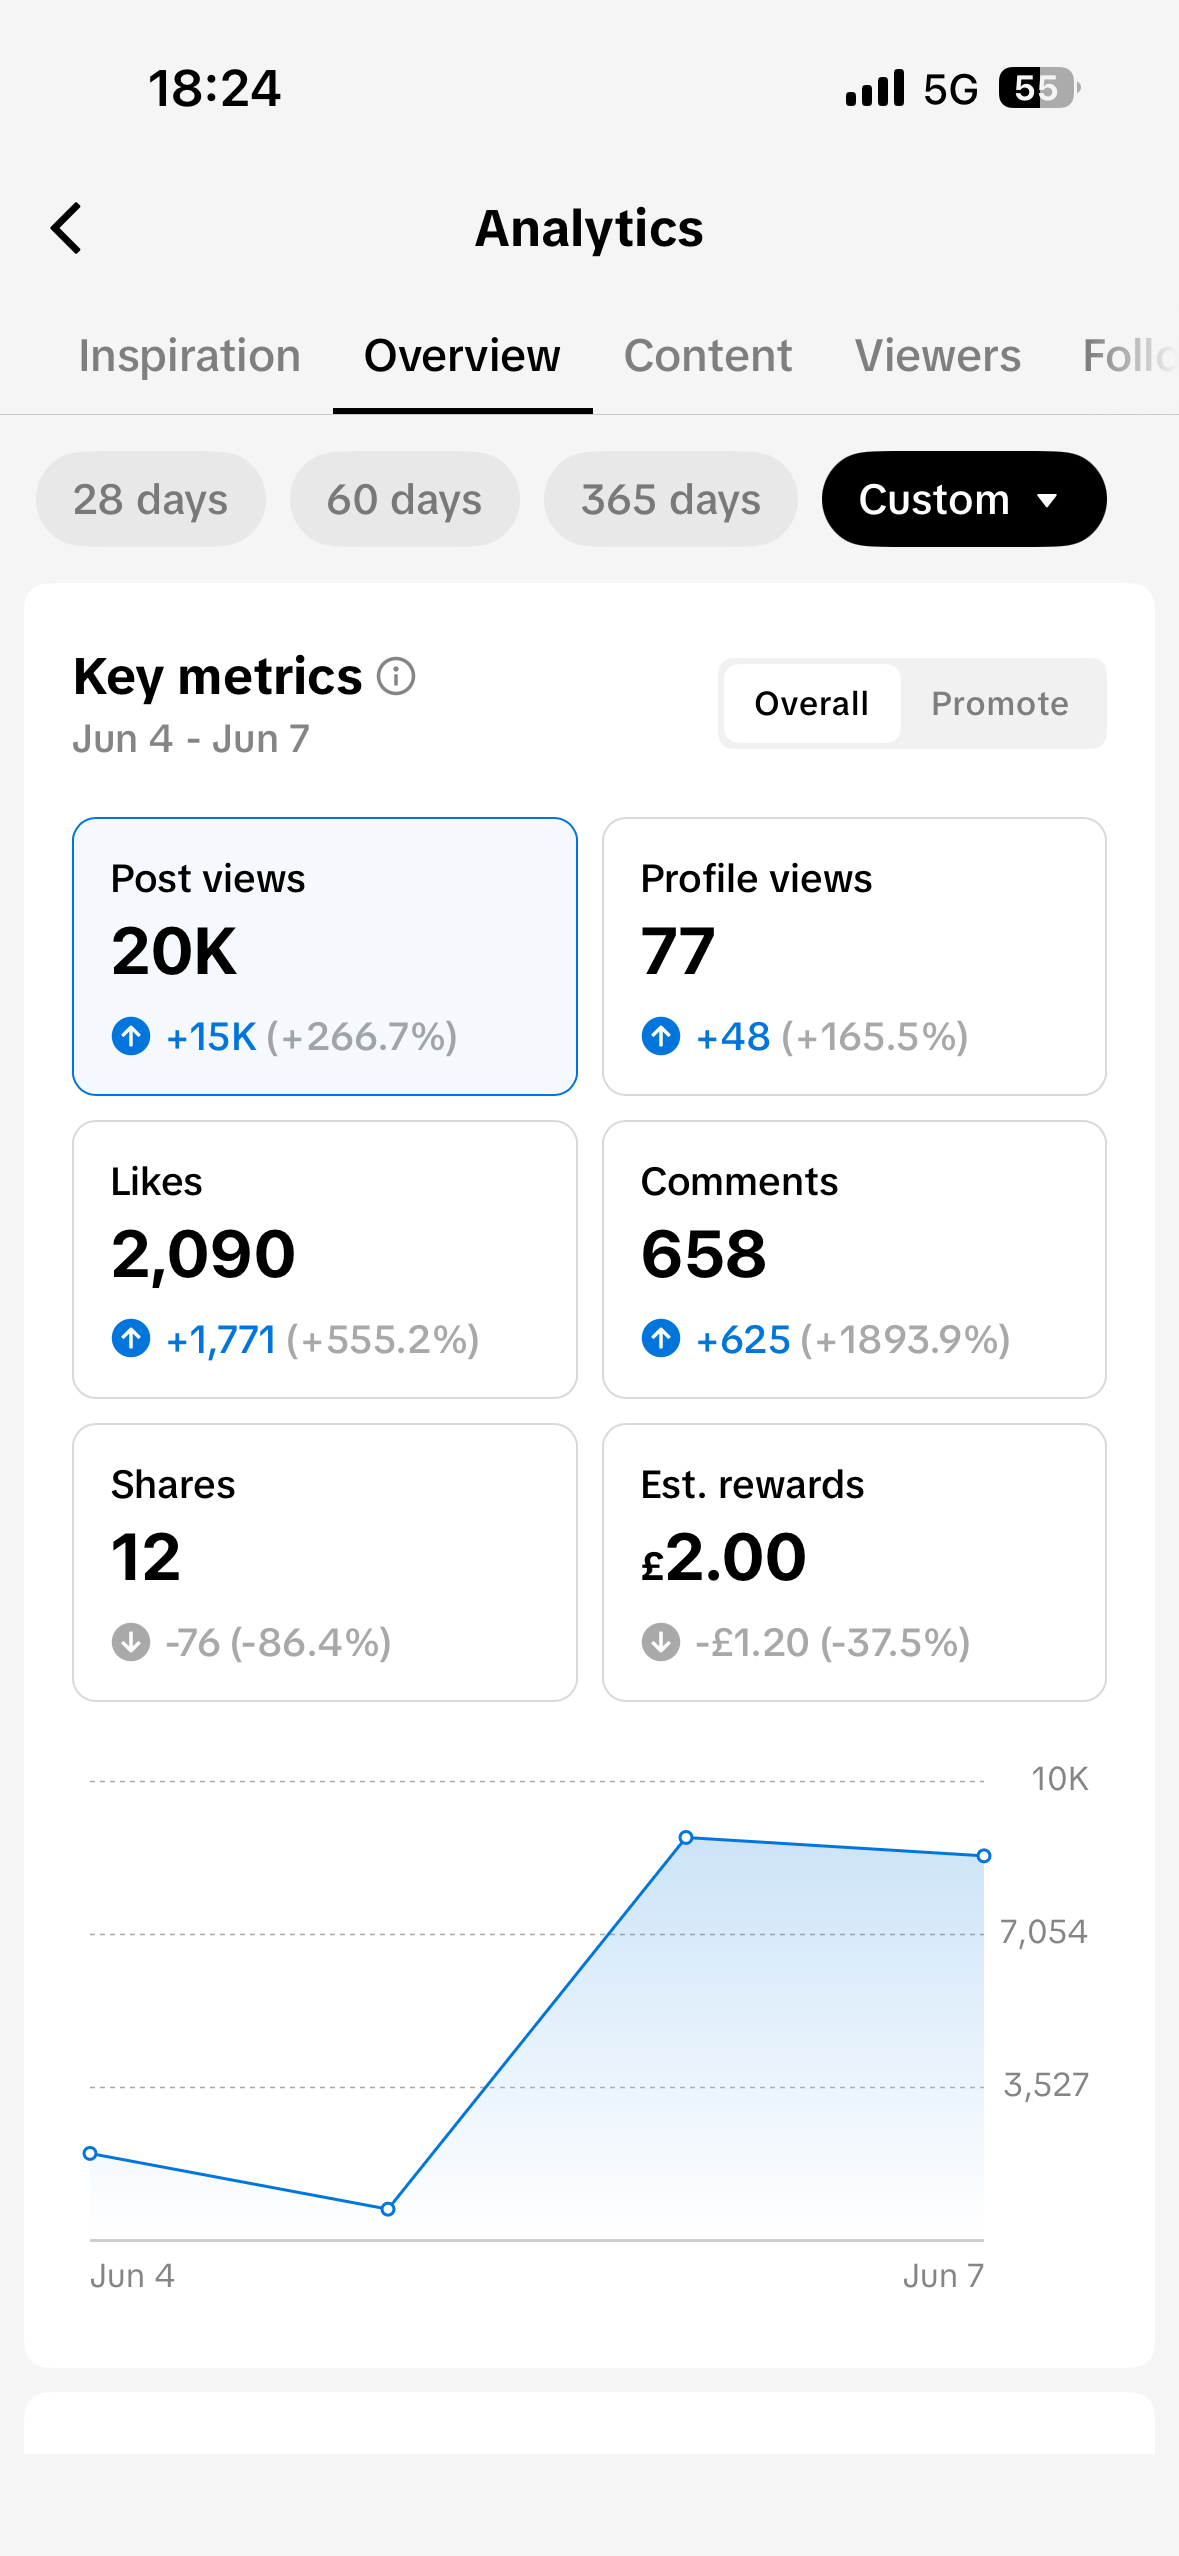
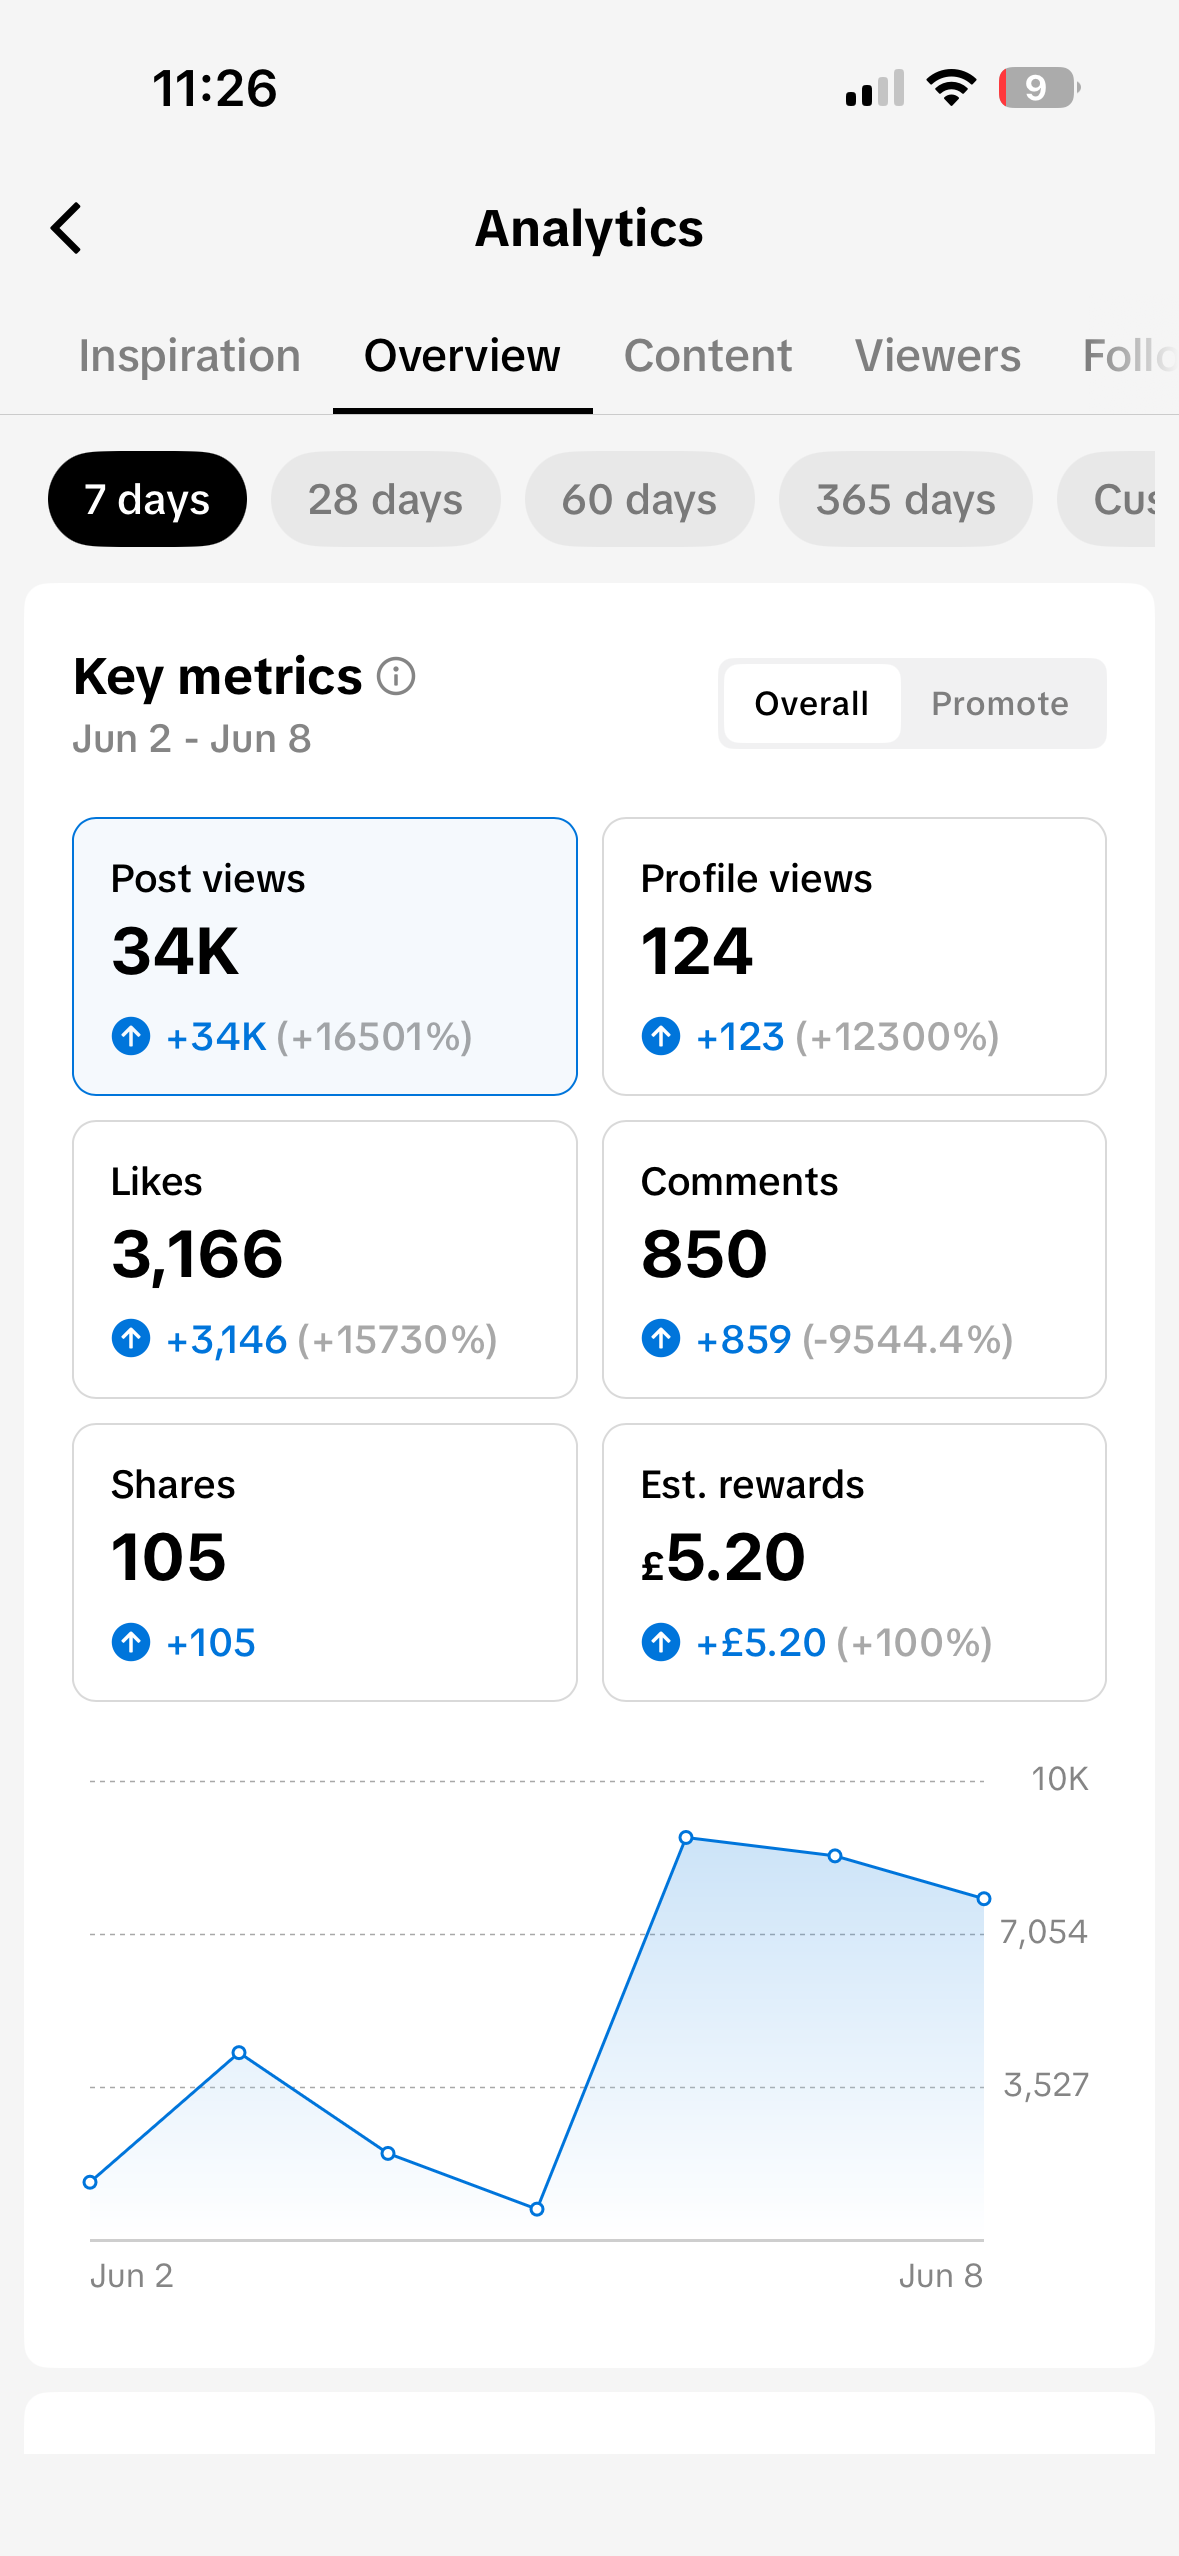
Update stats to 34K views, 16501% growth, new analytics screenshot

diff --git a/index.html b/index.html
@@ -136,10 +136,10 @@ input[type=text]{
   </div>
 
   <div class="stats">
-    <div class="stat"><strong>20,000+</strong><span>Views in 4 days</span></div>
+    <div class="stat"><strong>34,000+</strong><span>Views in 7 days</span></div>
     <div class="stat"><strong>9,000+</strong><span>On one post</span></div>
-    <div class="stat"><strong>2,000+</strong><span>Engagements</span></div>
-    <div class="stat"><strong>50+</strong><span>Followers per day</span></div>
+    <div class="stat"><strong>4,000+</strong><span>Engagements</span></div>
+    <div class="stat"><strong>16,501%</strong><span>Growth rate</span></div>
   </div>
 
   <div style="text-align:center;margin-bottom:24px">
@@ -148,8 +148,8 @@ input[type=text]{
   </div>
 
   <div class="proof">
-    <div class="proof-quote">"I went from guessing what to post to generating 20,000+ views in 4 days. Creator Radar tells me exactly what my audience wants to see before anyone else is posting about it."</div>
-    <div class="proof-author">- Beta User, 20K+ views in first week</div>
+    <div class="proof-quote">"I went from guessing what to post to 34,000 views in one week. Creator Radar tells me exactly what my audience wants to see before anyone else is posting about it."</div>
+    <div class="proof-author">- Beta User, 34K views in first week | +16,501% growth</div>
   </div>
 
   <div class="features">
